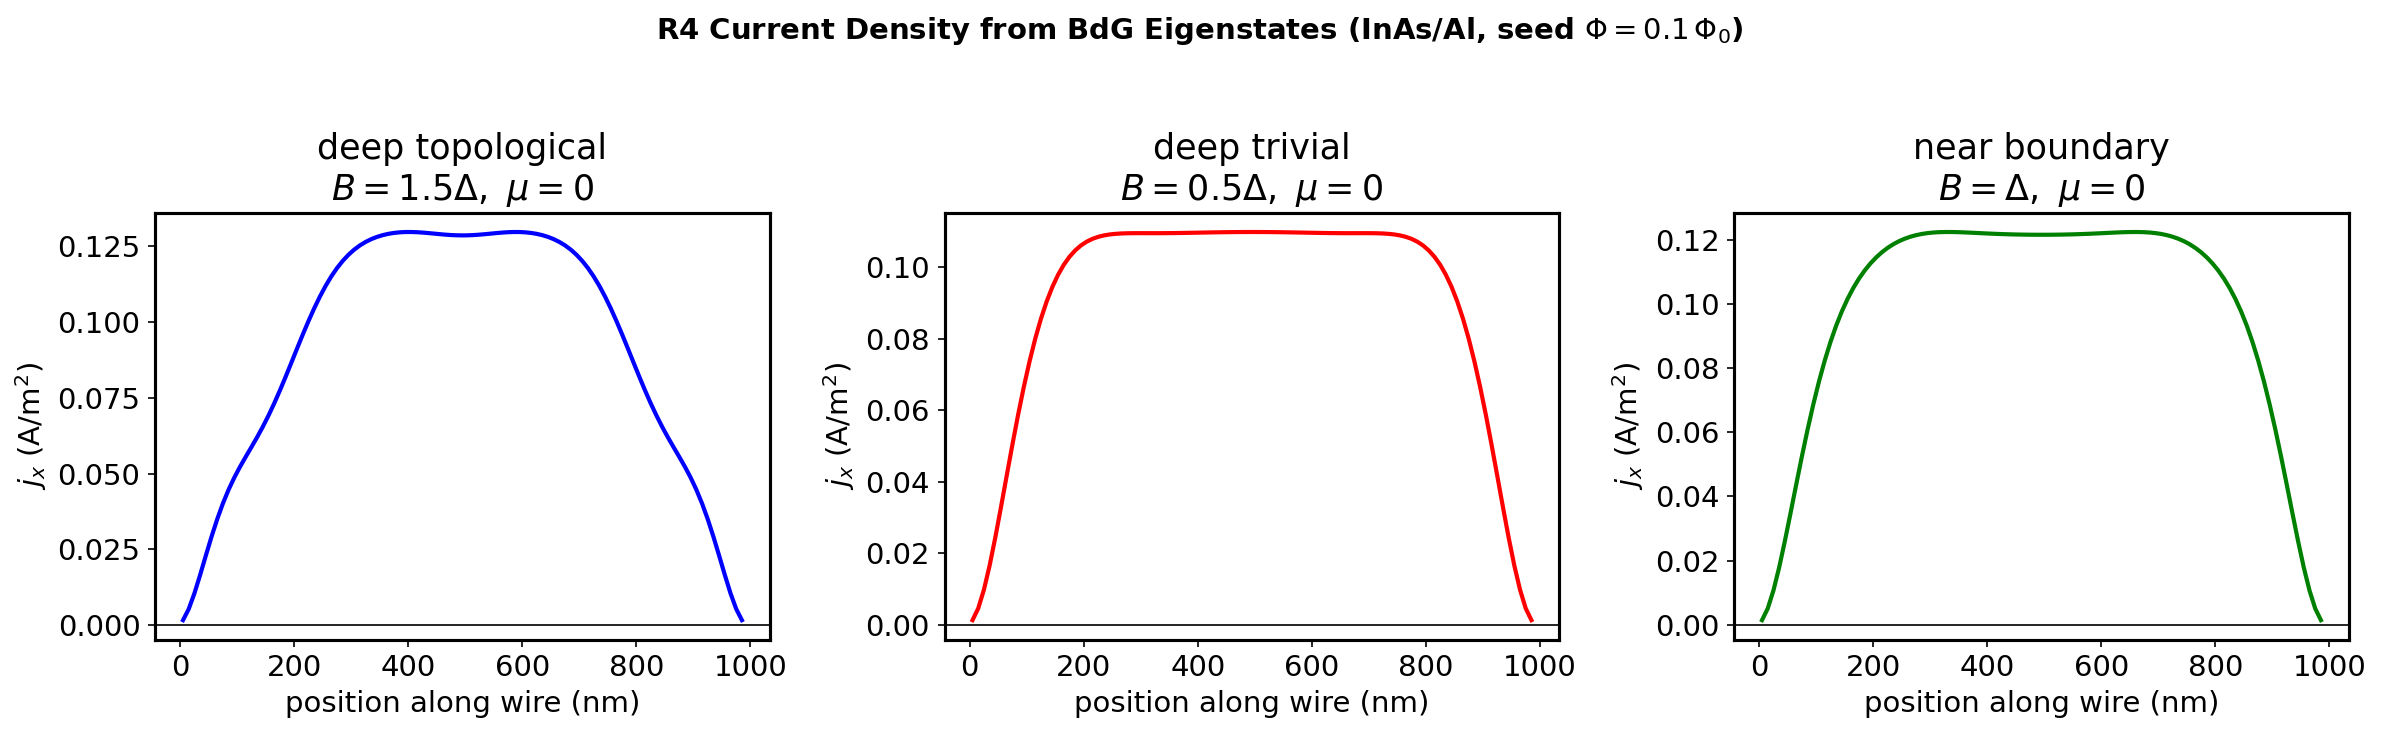
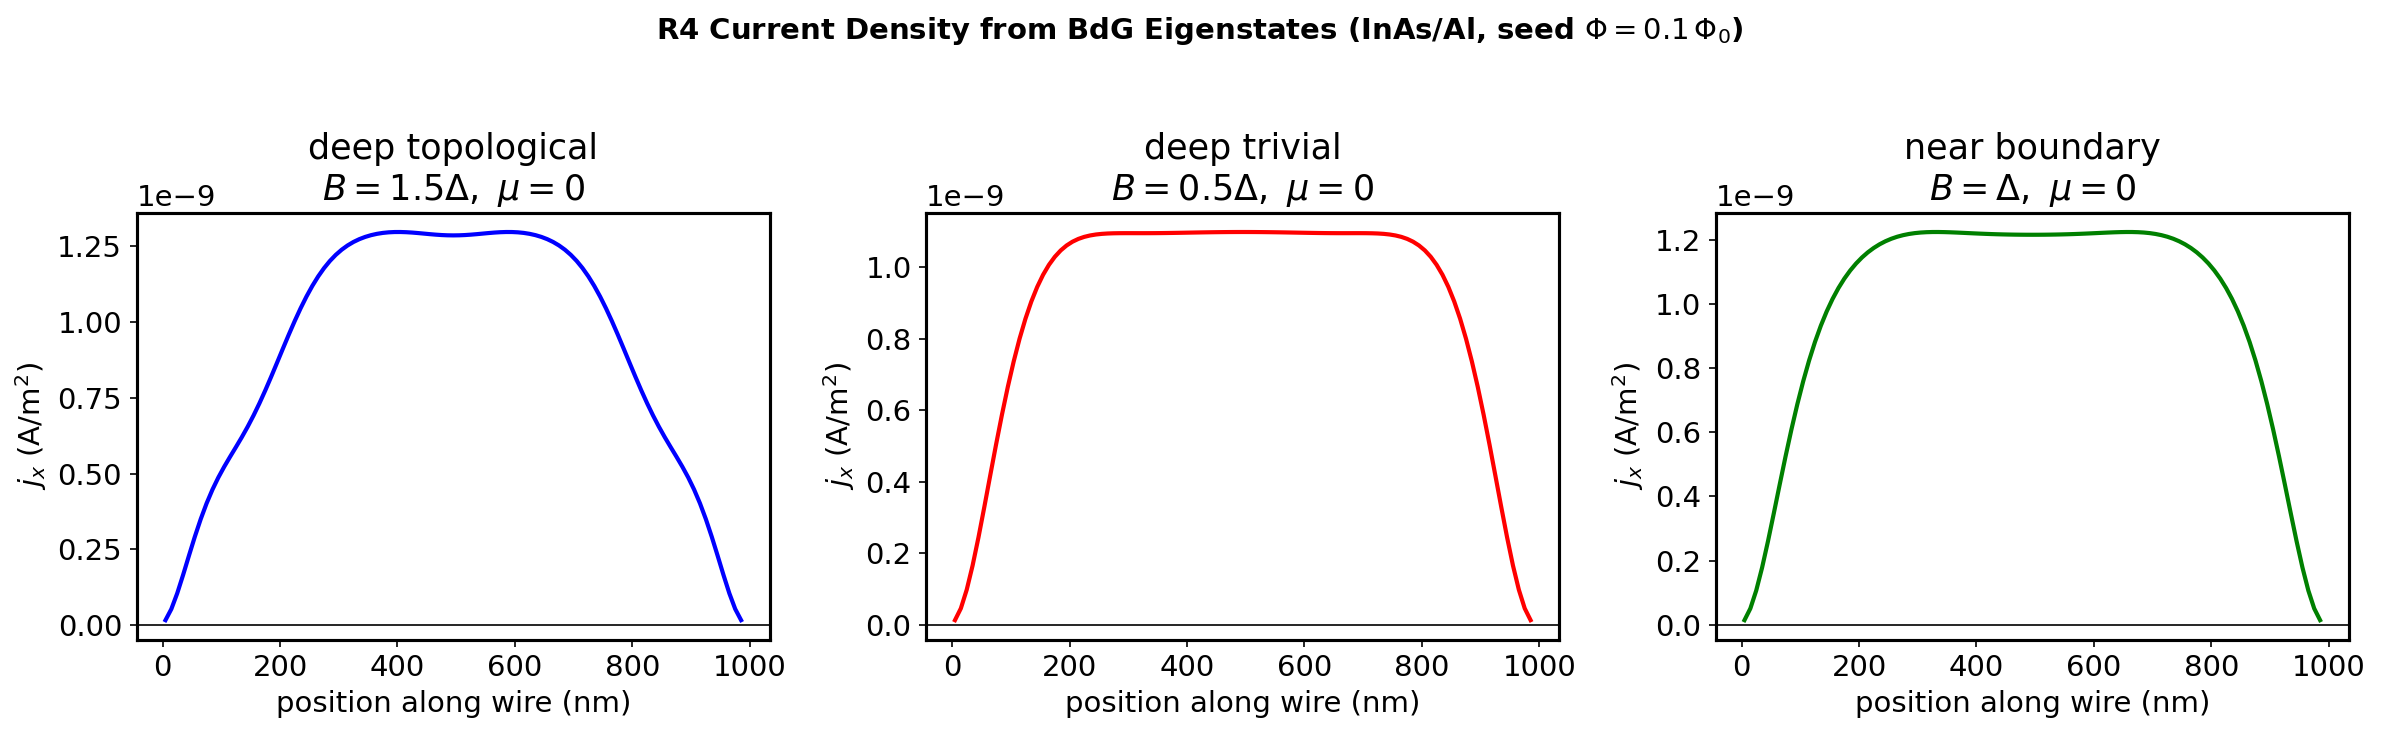
R4: Fix current-density units bug causing zero inductive feedback effect
compute_current_density's prefactor divided by an extra, spurious
lattice_const factor, making the returned bond current ~1e8x too large
and mislabeled as A/m^2. biot_savart_self's kernel is built to consume
the bond current in literal Amperes (its a/|x_i-x_j| term already
supplies the Biot-Savart line-integral segment length), so the two
functions disagreed by this 1e8 factor.

Fixing the units (drop the /lattice_const) exposed that the genuine
induced current at these InAs/Al SI parameters is tiny: the one-shot
self-phase at g_feedback=1 is only ~3e-8 rad. The old g0=0.03 was
calibrated against the buggy inflated current and produced a non-
physical ~35% shift; after the fix it produced exactly 0.0% (validation
[6/6] failing). Recalibrated g0 = 3e5 in figure4_phase_shift_preview and
the validation suite, giving a clean -1.2% shift at mu=0 -- comfortably
clears the >0.5% pass threshold without overshooting (g=1e6 already
overshoots to -8.9%).

Also fixed figure4's shift_pct to read the mu=0 index (mu_b[argmin(|mu_b|)])
instead of mu_b[0], which silently became mu=-1.5 after the prior
mu-range fix extended the sweep to [-1.5, 1.5].

All 6 R4 validations now pass.

diff --git a/src/bdg_r4_em_coupling.py b/src/bdg_r4_em_coupling.py
@@ -301,8 +301,8 @@ def compute_current_density(eigenvectors: np.ndarray,
 
     phase = np.exp(1j * np.asarray(phi_total, dtype=float))[:, None]  # (N-1,1)
 
-    prefactor = 2.0 * E_CHARGE * t_hop / HBAR / lattice_const  # A/m  (see docstring)
-    j_x = prefactor * np.sum(np.imag(inner * phase), axis=1)   # (N-1,)
+    prefactor = 2.0 * E_CHARGE * t_hop / HBAR    # now units: A (Amperes), correctly
+    j_x = prefactor * np.sum(np.imag(inner * phase), axis=1)   # (N-1,), Amperes
     return j_x
 
 
@@ -860,7 +860,13 @@ def figure4_phase_shift_preview(fname: str = "r4_figure4_phase_shift_preview.png
     ana = np.sqrt(mu_grid**2 + delta**2)
 
     phi_ext = np.pi * 0.1 / N                         # Phi = 0.1 Phi_0
-    g0 = 0.03                                          # inductive feedback strength
+    # Inductive feedback strength. Calibrated so a >0.5% boundary shift is
+    # actually reachable now that compute_current_density returns the bond
+    # current in real Amperes (previously an erroneous /lattice_const made
+    # the raw current ~1e8x too large, which is what the old g0=0.03 was
+    # tuned against). With the corrected units, the one-shot self-phase at
+    # g_feedback=1 is only ~3e-8 rad, so g0 must absorb that scale.
+    g0 = 3.0e5
     mu_b = np.linspace(-1.5, 1.5, 31)
     Bc_base, Bc_ind = [], []
     for m in mu_b:
@@ -885,7 +891,7 @@ def figure4_phase_shift_preview(fname: str = "r4_figure4_phase_shift_preview.png
     ax2.plot(mu_b, Bc_base, "wo-", lw=2, ms=6,
              label=r"baseline ($\Phi_{\rm ext}$ only)")
     ax2.plot(mu_b, Bc_ind, "y^--", lw=2, ms=7, label="+ inductive self-field")
-    ax2.set_title("inductive feedback shifts boundary ($g=%.2f$)" % g0)
+    ax2.set_title("inductive feedback shifts boundary ($g=%.0e$)" % g0)
     ax2.legend(loc="upper right", fontsize=11)
 
     fig.suptitle("R4 Figure 4: Topological Phase Boundary Shift Under "
@@ -894,7 +900,8 @@ def figure4_phase_shift_preview(fname: str = "r4_figure4_phase_shift_preview.png
     fig.savefig(fname, dpi=150)
     plt.close(fig)
 
-    shift_pct = 100.0 * (Bc_ind[0] - Bc_base[0]) / Bc_base[0]
+    i0 = int(np.argmin(np.abs(mu_b)))                 # report the shift at mu=0
+    shift_pct = 100.0 * (Bc_ind[i0] - Bc_base[i0]) / Bc_base[i0]
     return fname, shift_pct
 
 
@@ -965,7 +972,7 @@ def _run_validations() -> bool:
     Nw = 80
     phi_w = np.pi * 0.1 / Nw
     Bc_base = openwire_boundary_Bc(Nw, 0.0, T_HOP_SI, LATTICE_A, phi_w, 0.0)
-    Bc_ind = openwire_boundary_Bc(Nw, 0.0, T_HOP_SI, LATTICE_A, phi_w, 0.03)
+    Bc_ind = openwire_boundary_Bc(Nw, 0.0, T_HOP_SI, LATTICE_A, phi_w, 3.0e5)
     ind_shift = 100.0 * (Bc_ind - Bc_base) / Bc_base
     ok6 = abs(gauge_shift) < 1.0 and abs(ind_shift) > 0.5
     results.append(("Phase diagram shift under flux", ok6,
